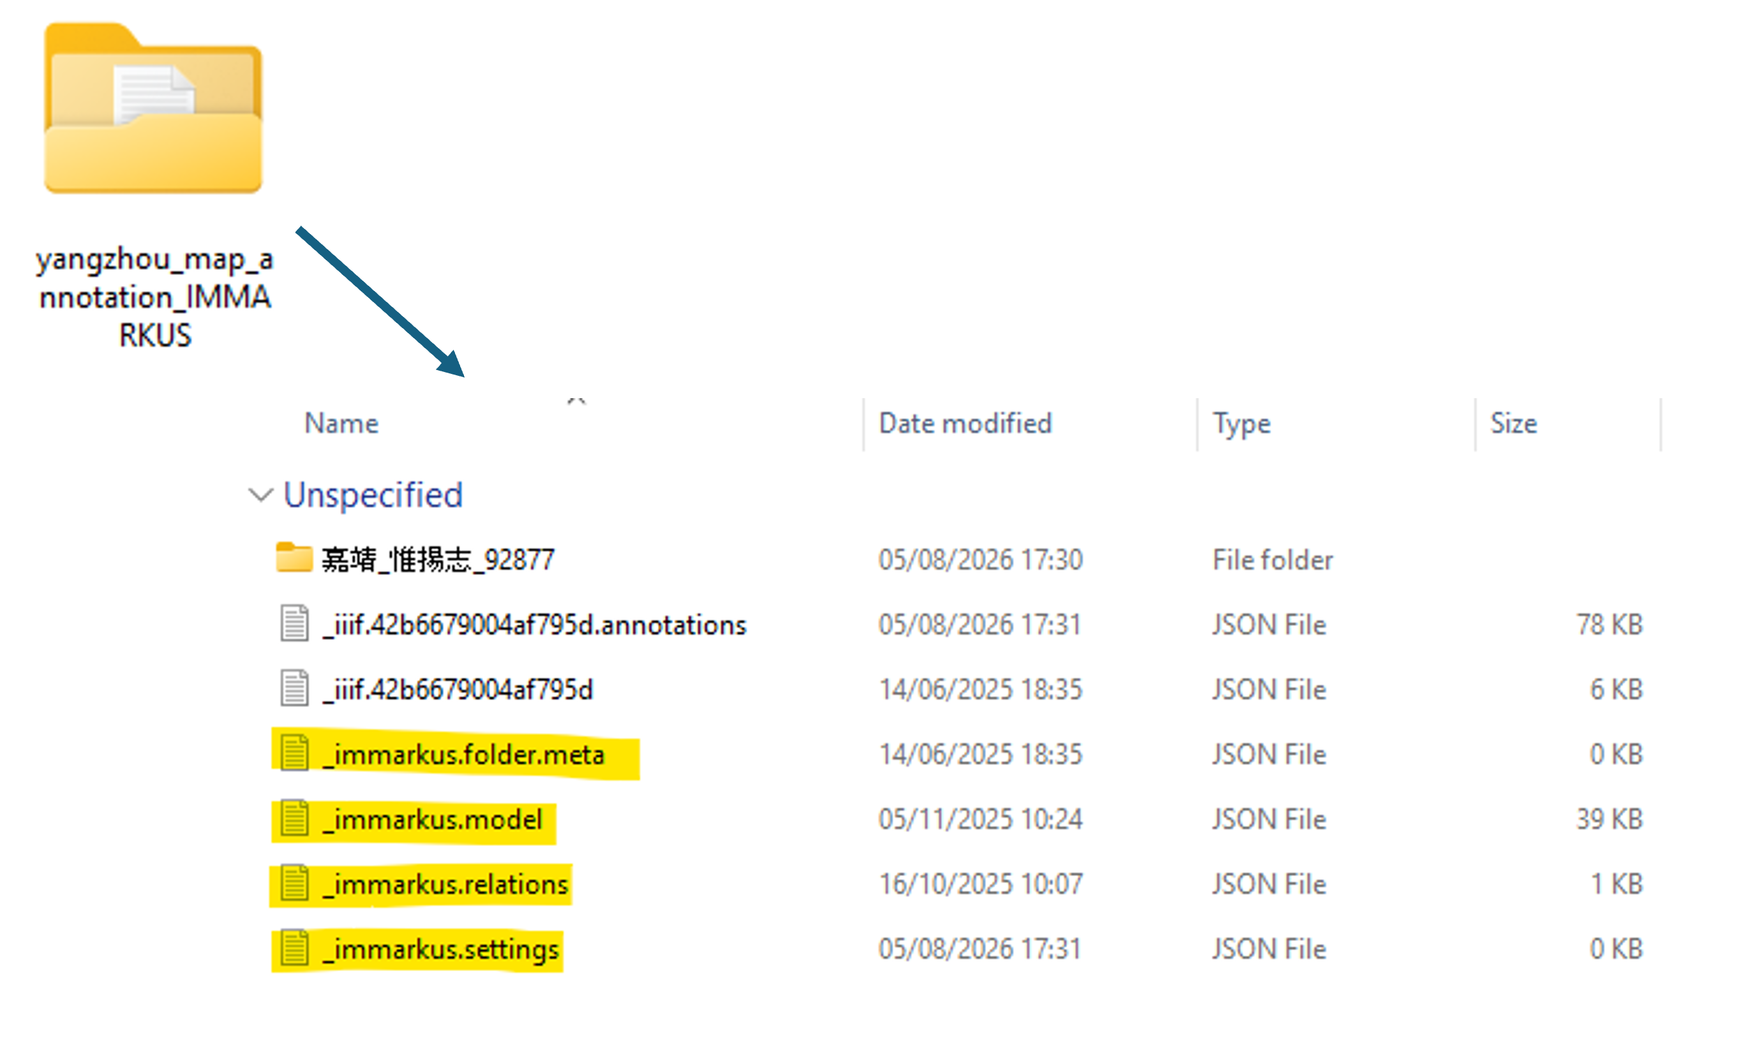
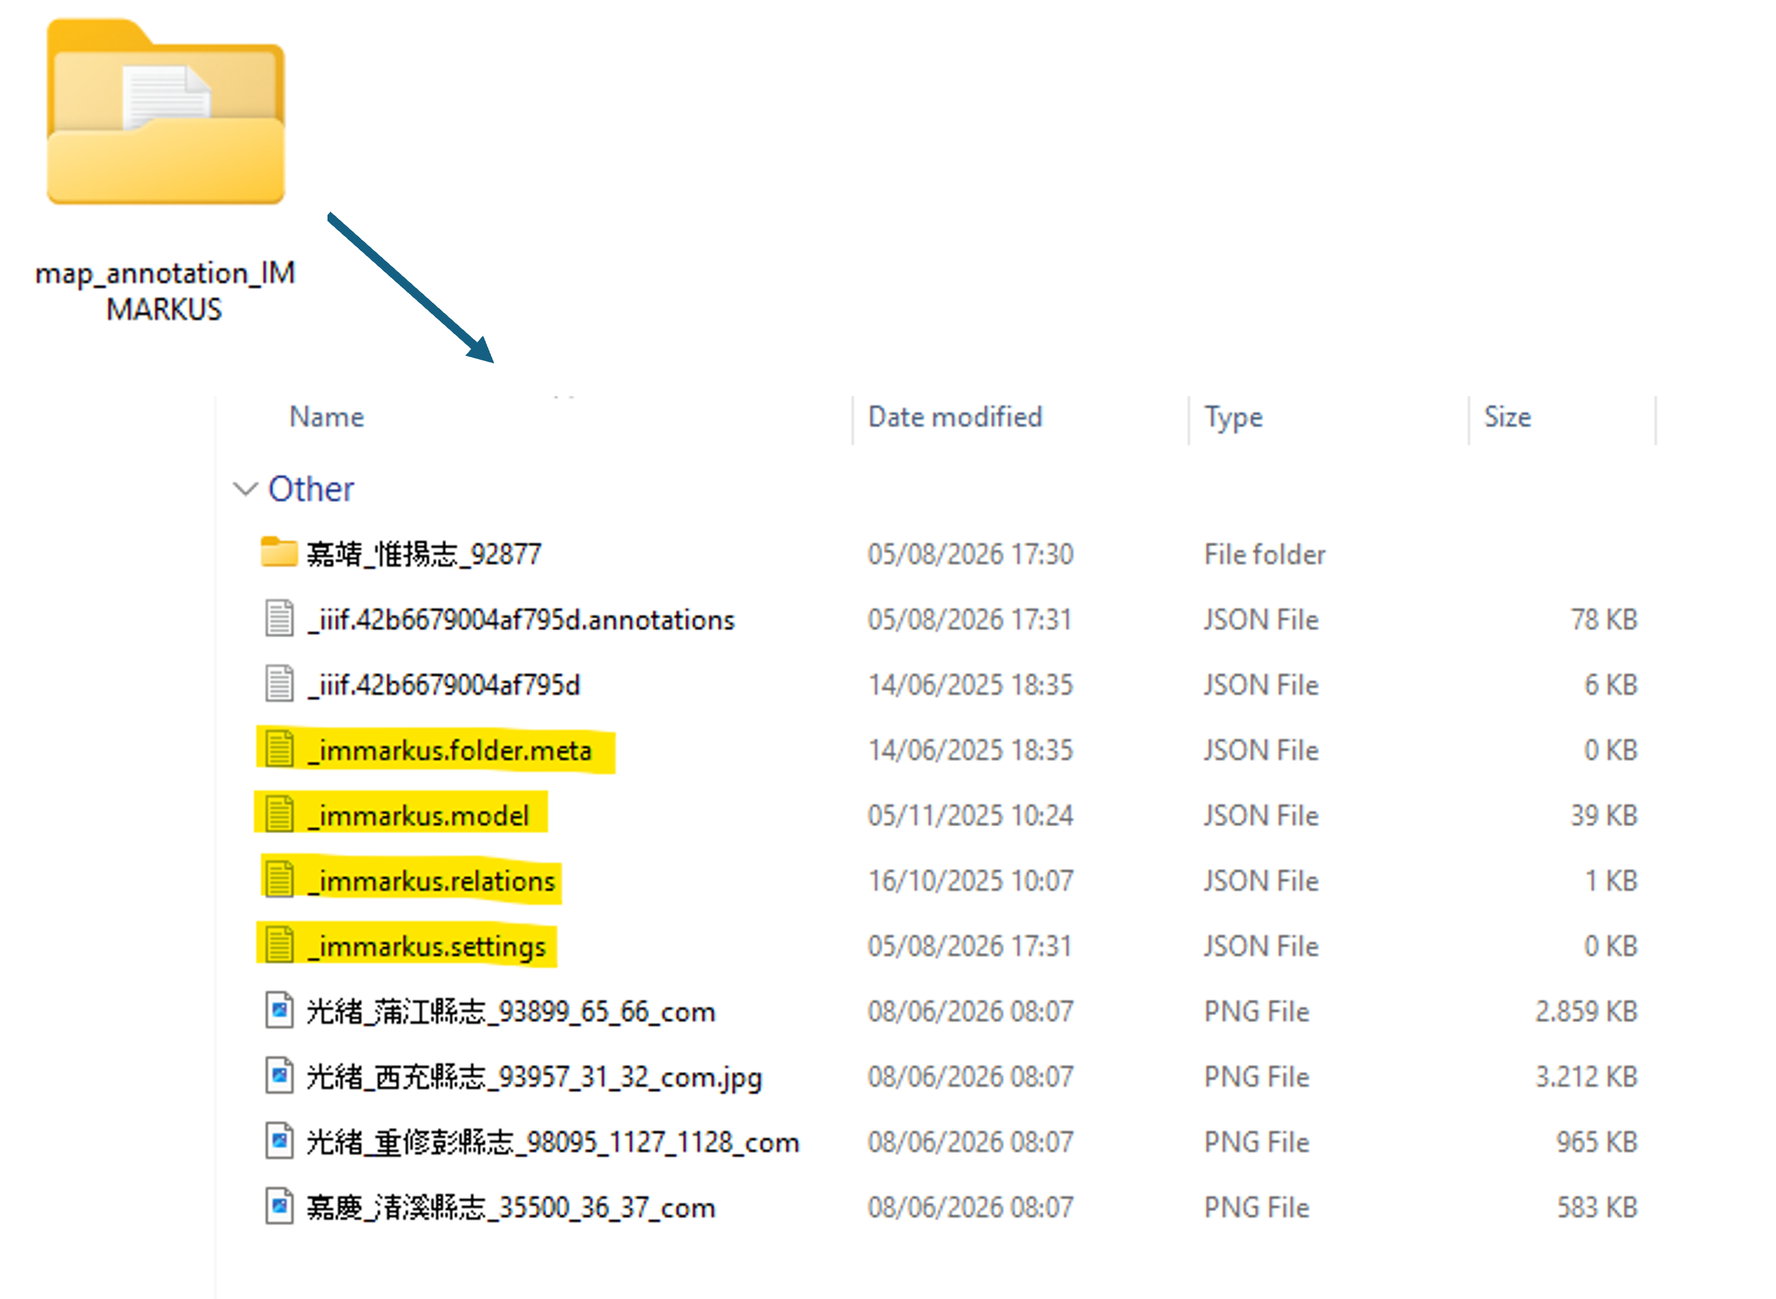
1015 revision following comments

diff --git a/260807release_instruction_preview/XmarkusTools/XmarkusPlatform-Help-Responsive.html b/260807release_instruction_preview/XmarkusTools/XmarkusPlatform-Help-Responsive.html
@@ -2,6 +2,7 @@
 <html lang="zh-Hant-TW">
 <head>
    <meta http-equiv="Content-Type" content="text/html; charset=UTF-8"/>
+   <title>X-MARKUS Instructions</title>
    <script src="components/js/jquery.min.js"></script>
    <link
       rel="stylesheet"
@@ -191,7 +192,7 @@
      <table width="100%">
        <tr>
          <td width="200">
-           <span style="font-size:24px; font-weight:bold; padding-left:16px;">Instruction</span>
+           <span style="font-size:24px; font-weight:bold; padding-left:16px;">Instructions</span>
          </td>
          <td align="center">
          </td>
@@ -240,7 +241,7 @@
 
          <h2 id="requirements">02 Prerequisites and Data Preparation</h2>
          <p>
-           Before using X-MARKUS, ensure your annotations have been properly created and checked in the MARKUS services.
+           Before using X-MARKUS, ensure your annotations have been properly created in the MARKUS services.
          </p>
          <ul>
            <li><strong><a href="https://dh.chinese-empires.eu/markus/" target="_blank">ENTMARKUS</a></strong>: entity annotation in texts (persons, places, organizations, dates, and other semantic categories).</li>
@@ -253,7 +254,7 @@
                <img src="images/02_fig1.png" alt="ENTMARKUS working folder" width="800">
             <li id="comarkus-files"><strong>COMARKUS</strong>: working folder containing your <code>.html</code> files and their matching <code>.json</code> files, alongside <code>xmarkus-metadata.json</code> and <code>rules.json</code></li>
                <img src="images/02_fig2.png" alt="COMARKUS working folder" width="800">
-            <li id="immarkus-files"><strong>IMMARKUS</strong>: working folder containing all subfolders, IIIF Manifest <code>.json</code> files, alongside <code>_immarkus.settings.json</code>, <code>_immarkus.model.json</code>, <code>_immarkus.relations.json</code> and <code>_immarkus.folder.meta.json</code></li>
+            <li id="immarkus-files"><strong>IMMARKUS</strong>: working folder containing all subfolders, local image files (in <code>.jpg</code> or <code>.png</code>), IIIF Manifest <code>.json</code> files, alongside <code>_immarkus.settings.json</code>, <code>_immarkus.model.json</code>, <code>_immarkus.relations.json</code> and <code>_immarkus.folder.meta.json</code></li>
                <img src="images/02_fig3.png" alt="IMMARKUS working folder" width="800">
          </ul>
          <a href="#requirements" class="back-to-top">&#8593; Back to section top</a>
@@ -284,22 +285,25 @@
               <li><strong>Add More Files</strong> to the conversion.</li>
               <li><strong>Go to Search and Filter</strong> to work with the converted annotations.</li>
               <li><strong>Download</strong> the converted <code>.xml</code>file for later use.</li>
-              <li><strong>Merge Databases</strong> to combine converted files from COMARKUS and IMMARKUS.</li>
+              <li><strong>Merge Databases</strong> to combine converted files from ENTMARKUS and IMMARKUS.</li>
+              <p class="notice">Merged ENTMARKUS and IMMARKUS databases can only be viewed in the <a href="#searching-and-filtering-annotations">Searching and Filtering Annotations</a> interface.</p>
+              <p class="notice"><strong>Additional features</strong>, including the <a href="#entities-in-both-text-and-image-annotations">Event-Image Alignment</a>filter and the <a href="#visualizing-relations">Visualizing Relations</a> feature, are supported only for <a href="#converting-comarkus-files">COMARKUS</a>, <a href="#converting-imarkus-files">IMMARKUS</a>, or a combined COMARKUS and IMMARKUS dataset.</p>
             </ul>
           </ol>
          <h3 id="converting-comarkus-files">Working with Event Annotations (COMARKUS files)</h3>
          <ol>
          <li><p>When converting COMARKUS files, a dialog will ask you to choose how annotations are displayed:</p>
             <ul>
-              <li><strong>By event:</strong> Displays each event separately. A source text containing multiple events will be repeated for each event.</li>
-              <li><strong>By source text:</strong> Displays each source text only once, grouping all associated events together in a side panel.</li>
+              <li><strong>By event:</strong> Displays the source text on the left and a single event’s details on the right, repeating the source text for each associated event.</li>
+              <li><strong>By source text:</strong> Displays the source text once on the left and a list of all associated events on the right.</li>
               <p><img src="images/03_fig3.png" alt="COMARKUS Conversion Modes" width="1000"></p>
             </ul>
           </li>
           <li>
-            <p>After selecting a display mode and uploading all files from your <a href="#comarkus-files">COMARKUS working folder</a>, you can add a "compilation" metadata field to specify the folder name. You can either use the existing local folder name or type a custom name.</p>
-            <p><img src="images/03_fig4.png" alt="COMARKUS Compilation Metadata" width="800"></p>
+            <p>After selecting a display mode and uploading all files from your <a href="#comarkus-files">COMARKUS working folder</a>, you can assign a <strong>compilation</strong> name to the converted batch. You can either use the existing local folder name or type a custom name.</p>
+            <P>This name is stored in the "compilation" metadata field and identifies the files as a group within X-MARKUS.</P>
             <p>This is useful for distinguishing between multiple COMARKUS folders when converting and navigating them together in X-MARKUS.</p>
+            <p><img src="images/03_fig4.png" alt="COMARKUS Compilation Metadata" width="800"></p>
           </li>
           <li>
             <p>Once the conversion is complete, a summary displays the number of files processed for your compilation. There should normally be one metadata file per working folder.</p>
@@ -315,8 +319,6 @@
                <p>From here, you can choose to <strong>Add More Files</strong>, <strong>Go to Search and Filter</strong>, <strong>Download</strong> the converted <code>.xml</code>file for later use, or <strong>Merge Databases</strong> to combine converted files from COMARKUS and IMMARKUS.</p>
           </li>
           <li><p>There is an advanced mode for converting IMMARKUS files using <strong>standard URLs</strong>. By hosting your IMMARKUS folder on a web server, you give each image a stable, reusable address. This allows X-MARKUS to reload the images reliably after conversion and makes it easier to share the converted <code>.xml</code> file with others who use the same server settings. The advanced mode also supports direct URLs to files hosted on remote servers.</p>
-              <p>Using standard URLs gives each IMMARKUS image a stable, reusable address. This allows X-MARKUS to reload the images reliably after conversion and makes it easier to share the converted database with others.
-</p>
               <p>The default local configuration uses <a href="https://simplewebserver.org/" target="_blank">Simple Web Server</a>. </p>
               <details>
                 <summary style="cursor: pointer; font-weight: bold; color: #7890ab;">Click to read the instructions for setting up a Simple Web Server for your IMMARKUS files.</summary>
@@ -372,7 +374,7 @@
         <p>
           You can initiate a merge in two ways:
           <ul>
-            <li>Click <strong>Merge Databases</strong> immediately  after both the COMARKUS and IMMARKUS conversions are complete.</li>
+            <li>Click <strong>Merge Databases</strong> immediately after converting COMARKUS or IMMARKUS files, with any additional sets already converted and ready.</li>
             <p><img src="images/04_fig1.png" alt="Merge Databases after Conversion" width="1000"></p>
             <li>Or click the <strong>Merge DBs</strong> button on the top menu bar to combine previously converted and downloaded <code>.xml</code> files.</li>
             <p><img src="images/04_fig2.png" alt="Merge Databases from Menu" width="800"></p>
@@ -385,7 +387,7 @@
         After converting and merging your annotations, you can use X-MARKUS to search and filter across text entities, contextual clusters, and image annotations.
        </p>
         <h3 id="importing-annotations">Importing Annotations</h3>
-        <p>Import your converted annotations into Searching and Filtering interface in one of the two ways:</p>
+        <p>Import your converted annotations into the <a href="#searching-and-filtering-annotations">Searching and Filtering</a> interface in one of two ways:</p>
           <ul>
             <li>Click <strong>Go to Search and Filter</strong> directly from the <strong><a href="#converting-annotations">Converting</a></strong> interface.</li> 
             <p><img src="images/05_fig1.png" alt="Go to Search and Filter" width="1000"></p>
@@ -406,17 +408,17 @@
             <p><img src="images/05_fig6.png" alt="Source Pane of Image" width="1000"></p>
             <p>You can sort the displayed sources by:
               <ul> 
-                <li>File name (Document ID)</li>
+                <li>Document ID (File name)</li>
                 <li>Author name</li>
-                <li>Compilation name defined during conversion (Compilation)</li>
-                <li>Gazetteer name (Data Source)</li>
-                <li>Inscription title (Piece Title)</li>
-                <li>Covering place (Place Covered)</li>
-                <li>Publication year in ascending or descending order</li>
+                <li>Compilation (Compilation name defined during conversion)</li>
+                <li>Data Source (Gazetteer name)</li>
+                <li>Piece Title (Inscription title)</li>
+                <li>Place Covered</li>
+                <li>Year (Publication year in ascending or descending order)</li>
               </ul>
             </p>
             <p><img src="images/05_fig6_add.png" alt="Source Pane with Sorting Options" width="800"></p>
-            <p>For event annotations, the <a href="https://comarkus.xmarkus.org/" target="_blank">COMARKUS</a> color scheme and <a href="https://entmarkus.xmarkus.org/" target="_blank">ENTMARKUS</a> IDs are integrated directly into the text. You can activate this display via the drop-down menu in the top right corner.</p>
+            <p>For event annotations, the <a href="https://comarkus.xmarkus.org/" target="_blank">COMARKUS</a> color scheme set by the user and <a href="https://entmarkus.xmarkus.org/" target="_blank">ENTMARKUS</a> IDs are integrated directly into the text. You can activate this display via the drop-down menu in the top right corner.</p>
             <p><img src="images/05_fig7.png" alt="COMARKUS Event Color Scheme" width="1000"></p>
             <p><img src="images/05_fig8.png" alt="ENTMARKUS Annotated Entity IDs" width="1000"></p>
             <li><strong>Annotation List Pane</strong>: Displays the tags associated with each piece of text or image.</li>
@@ -453,15 +455,15 @@
           <p>The <strong>filter pane</strong> provides different filtering criteria for text and image annotations. The available options depend on the annotation type and are organized hierarchically, allowing you to refine your selections from broad categories to more specific values.</p>
           
           <h4>Filter Options for Text Annotations</h4>
-          For <strong>ENTMARKUS</strong> annotations, you can filter by <strong>Entity Tags(<code>text_tags</code>):</strong> defined in ENTMARKUS, such as "action" and "soccat".
+          For <strong>ENTMARKUS</strong> annotations, you can filter by <strong>Entity Tags(<code>text_tags</code>):</strong> set by user in ENTMARKUS, such as "action" and "cost".
           <p><img src="images/05_filter-option_fig3.png" alt="Filter Options - Entity Tags" width="400"></p>
           For COMARKUS annotations, except for the <strong>Entity Tags (<code>text_tags</code>)</strong>, you can also filter by:
           <ul>
             <li><strong>Metadata (<code>metadata</code>): </strong> Default parsed metadatafields from the converted dataset, including "author", "data source" (gazetteer title), "data title" (inscription title), "place covered", and "publication year".</li>
             <p><img src="images/05_filter-option_fig1.png" alt="Filter Options - Metadata" width="400"></p>
-            <li><strong>User defined metadata (<code>udef_docmeta</code>):</strong> Custom metadata fields defined in COMARKUS, such as "piece_time", "source_time" etc.</li>
+            <li><strong>User defined metadata (<code>udef_docmeta</code>):</strong> Custom metadata fields set by user in COMARKUS, such as "piece_time", "source_time" etc.</li>
             <p><img src="images/05_filter-option_fig2.png" alt="Filter Options - User Defined Metadata" width="400"></p>
-            <li><strong>Event tags (<code>txt_event_tree</code>)</strong>:  Event tags defined in COMARKUS, such as "EVENT" and "INITIATOR".</li>
+            <li><strong>Event tags (<code>txt_event_tree</code>)</strong>:  Event tags set by user in COMARKUS, such as "EVENT" and "INITIATOR".</li>
             <p><img src="images/05_filter-option_fig4.png" alt="Filter Options - Event Tags" width="400"></p>
           </ul>
            
@@ -470,17 +472,17 @@
           <ul>
             <li><strong>Metadata (<code>metadata</code>): </strong> Default parsed metadata fields from the converted dataset, including "author", "compilation" (image folder name), "piece title" (image title), "place covered", and "publication year".</li>
             <p><img src="images/05_filter-option_fig5.png" alt="Filter Options - ImageMetadata" width="400"></p>
-            <li><strong>User defined metadata (<code>udef_docmeta</code>):</strong> Custom metadata fields defined in IMMARKUS, such as "Genre" and "Medium" etc.</li>
+            <li><strong>User defined metadata (<code>udef_docmeta</code>):</strong> Custom metadata fields set by user in IMMARKUS, such as "Genre" and "Medium" etc.</li>
             <p><img src="images/05_filter-option_fig6.png" alt="Filter Options - User Defined ImageMetadata" width="400"></p>
-            <li><strong>Image Entity Classes(<code>img_entity_tree</code> / <code>Udef_Img_EntityClass</code>):</strong> Entity classes defined in IMMARKUS, such as "object" and "temple".</li>
+            <li><strong>Image Entity Classes(<code>img_entity_tree</code> / <code>Udef_Img_EntityClass</code>):</strong> Entity classes set by user in IMMARKUS, such as "object" and "temple".</li>
             <p><img src="images/05_filter-option_fig7.png" alt="Filter Options - Image Tags" width="400"></p>
-            <li><strong>Relationships between Image Entities(<code>img_entity_tree</code> / <code>Udef_Img_EntityRelation</code>):</strong> Relationships between image entities defined in IMMARKUS, such as "crossing".</li>
+            <li><strong>Relationships between Image Entities(<code>img_entity_tree</code> / <code>Udef_Img_EntityRelation</code>):</strong> Relationships between image entities set by user in IMMARKUS, such as "crossing".</li>
             <p><img src="images/05_filter-option_fig8.png" alt="Filter Options - Image Relationships" width="400"></p>
-            <li><strong>Image Properties(<code>img_properties</code>):</strong> Properties associated with entities annotated in IMMARKUS, such as "relation_to_wall", "texture" and "direction".</li>
+            <li><strong>Image Properties(<code>img_properties</code>):</strong> Properties associated with entities annotated by user in IMMARKUS, such as "relation_to_wall", "texture" and "direction".</li>
             <p><img src="images/05_filter-option_fig9.png" alt="Filter Options - Image Properties" width="400"></p>
           </ul>
 
-          <h4>Entities in Both Text and Image Annotations</h4>
+          <h4 id="entities-in-both-text-and-image-annotations">Entities in Both Text and Image Annotations</h4>
           <p>For the RegInfra project, X-MARKUS also supports filtering infrastructure entities that occur in both text and image annotations. Use the <strong>Event-Image Alignment (<code>align_evt_img</code></strong>) filter to identify corresponding entities in bridges or city walls.</p>
           <p>The filter displays the IDs of entities that occur in both annotation types in a drop-down menu. Select one or more IDs to retrieve the corresponding text and image annotations.</p>
           <p><img src="images/05_filter-option_fig10.png" alt="Filter Options - Cross-modal Entities" width="400"></p>
@@ -524,9 +526,9 @@
 
        <h2 id="visualizing-relations">06 Visualizing Relations</h2>
 
-        <p>You can use <strong>Visualizing Relations</strong> to explore connections within a single annotation dataset or across combined text and image annotation datasets. The interface represents annotations as a graph containing event nodes, image nodes, feature nodes—representing annotated entities and properties—and source-subfolder nodes. You can query, filter, label, and export the resulting network.</p>
+        <p>You can use <strong>Visualizing Relations</strong> to explore connections within a single annotation dataset or across combined text and image annotation datasets. The interface represents annotations as a graph containing event nodes, image nodes, feature nodes—representing annotated entities and properties—and source-subfolder nodes. You can query, filter, label, and export the resulting network graph.</p>
         <h3 id="importing-annotations-KG">Importing Annotations</h3>
-        <p>You can import annotations into the <strong>Visualizing Realtions</strong> interface in either of the following ways:</p>
+        <p>You can import annotations into the <strong>Visualizing Relations</strong> interface in either of the following ways:</p>
           <ul>
             <li>From the <strong><a href="#searching-and-filtering-annotations">Searching and Filtering</a></strong> page, click <strong>viz relations</strong> to load the current dataset.</li>
             <p><img src="images/05_fig21.png" alt="Visualizing Relations from Search and Filter" width="1000"></p>
@@ -642,7 +644,7 @@
       </p>
       <li>Select one or more image annotation tags from the drop-down menu. You can select tags from:
         <ul>
-          <li><strong>Image entity classes</strong>, such as <code>Udef_Img_EnttyClass</code>.</li>
+          <li><strong>Image entity classes</strong>, such as <code>Udef_Img_EntityClass</code>.</li>
           <li><strong>Image properties</strong>, such as <code>texture</code>, <code>direction</code>, or <code>bridge_cover</code>.</li>
         </ul>
       </li>
@@ -654,7 +656,7 @@
         <li><code>id</code>: The child class category (if any), such as <code>bridge</code> or <code>city_wall</code>.</li>
         <li><code>text</code>: The normalized identifier associated with the entity, such as <code>luojiang_qili_qiao</code> or <code>city_wall_moat</code>.</li>
       </ul>
-      <p class="notice">Some annotations may not contain all four levels. If an entity has no more specific child level, its highest available category may also appear in the list for a lower level. For example, <code>landform</code> and <code>water</code> are categorized to the <code>text</code> (parent class) level, but they will also appear in the <code>id</code> (child class) list  because no more specific child class is available.</p>
+      <p class="notice">Some annotations may not contain all four levels. If an entity has no child classes, its highest available category may also appear in the list for a lower level. For example, <code>landform</code> and <code>water</code> are categorized to the <code>text</code> (parent class) level, but they will also appear in the <code>id</code> (child class) list because no child class is available.</p>
       <p><img src="images/06_fig15.png" alt="Image Annotation Layer Filtering" width="1000"></p>
       <p class="notice">Image properties are not hierarchical, so they do not have multiple feature levels in the <strong>type of feature</strong> pane. Instead, select one or more property values directly from the available entries.</p>
       <p><img src="images/06_fig16.png" alt="Image Property Filtering" width="1000"></p>
@@ -669,9 +671,9 @@
     <li><strong>Graph Display Options</strong></li>
     <p>After defining the filters, you can further adjust the graph display with the following options:</p>
   <ul>
-    <li><strong>Show or hide unconnected event nodes:</strong>Displays or removes nodes without connections.</li>
-    <li><strong>Show or hide feature-hierarchy nodes:</strong>Displays or removes hierarchical feature nodes, such as <code>OBJECT_MAIN</code>, which may serve as the parent node for <code>bridge</code> and <code>city_wall</code>.</li>
-    <li><strong>Preserve node positions:</strong>Keeps the current node positions when the graph is redrawn.</li>
+    <li><strong>Show or hide unconnected event nodes: </strong>Displays or removes nodes without connections.</li>
+    <li><strong>Show or hide feature-hierarchy nodes: </strong>Displays or removes hierarchical feature nodes, such as <code>OBJECT_MAIN</code>, which may serve as the parent node for <code>bridge</code> and <code>city_wall</code>.</li>
+    <li><strong>Preserve node positions: </strong>Keeps the current node positions when the graph is redrawn.</li>
   </ul>
   <p><img src="images/06_fig18.png" alt="Graph Display Options" width="1000"></p>
 </ul>
